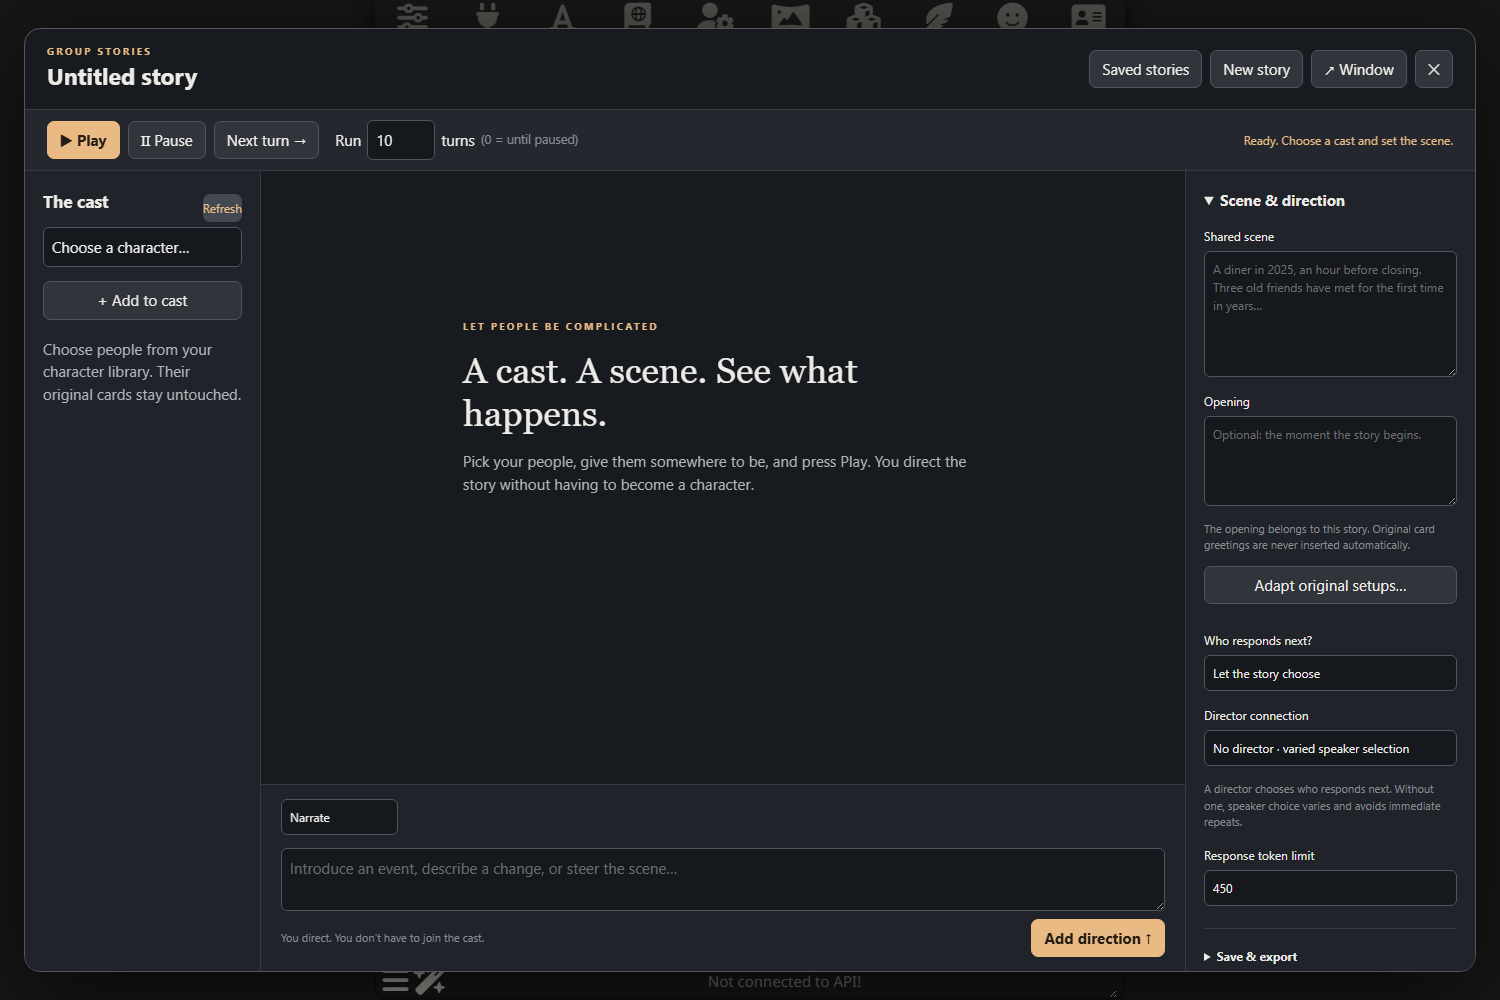
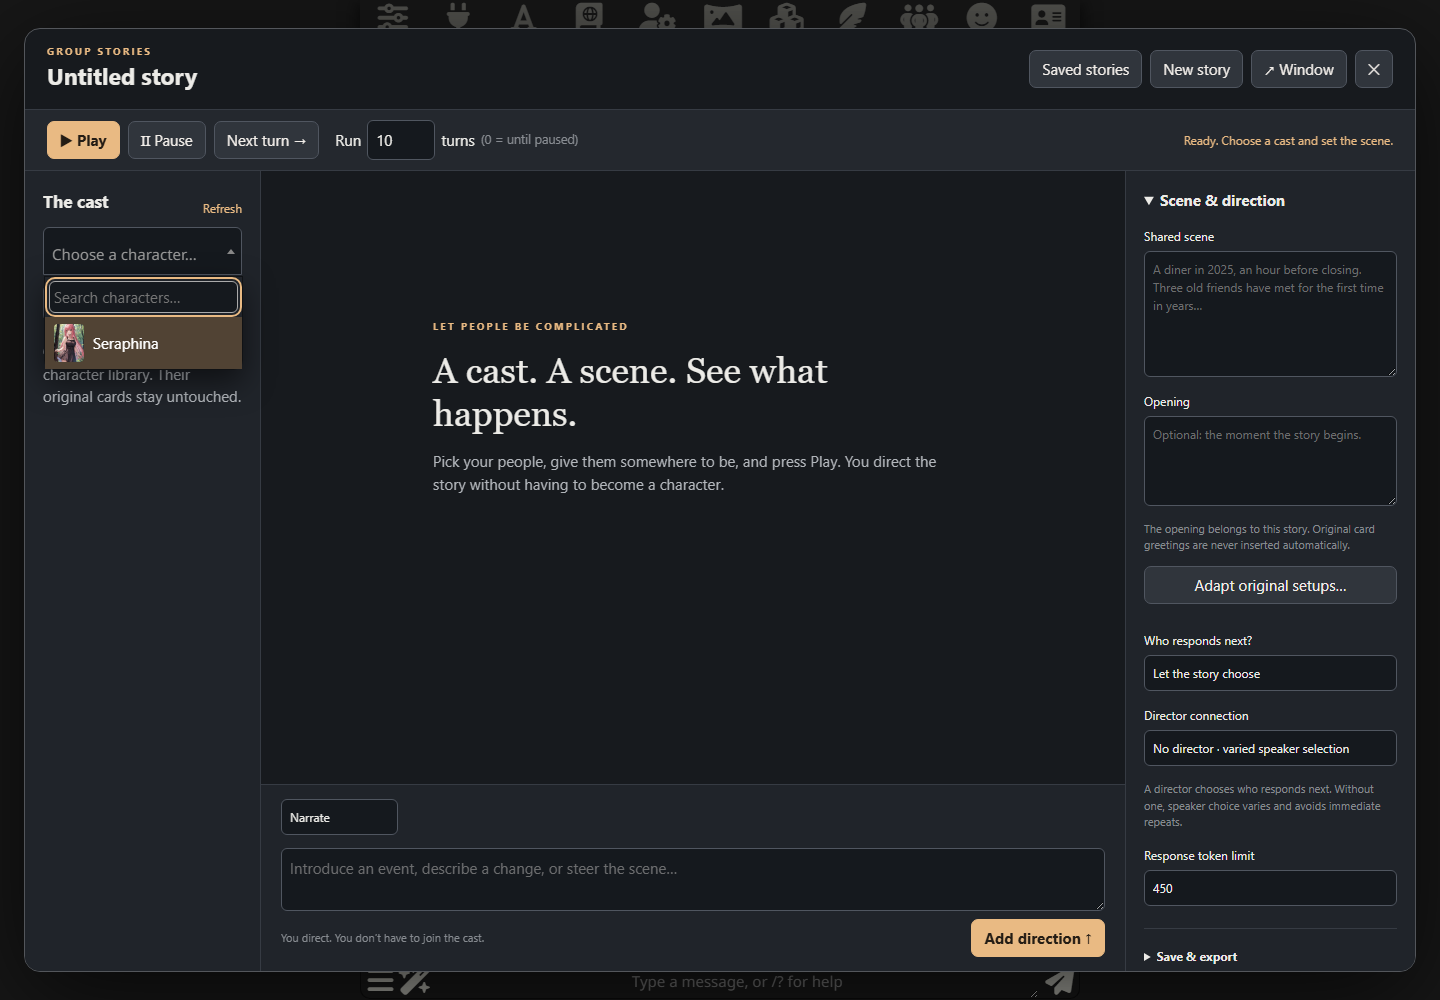
Add native launchers and searchable character portrait picker

diff --git a/index.js b/index.js
@@ -243,13 +243,40 @@ function mount() {
 function refreshLibrary() {
     const select = $('[data-library]');
     options(select, context().characters.map(c => ({ id: c.avatar, name: c.name })).sort((a, b) => a.name.localeCompare(b.name)), select.value, 'Choose a character…');
+    const $select = jQuery(select);
+    if (jQuery.fn.select2) {
+        if (!$select.hasClass('select2-hidden-accessible')) {
+            const portraitOption = item => {
+                if (!item.id) return item.text;
+                const row = el('span', 'gs-character-option');
+                const image = el('img', 'gs-picker-avatar');
+                image.src = context().getThumbnailUrl('avatar', item.id);
+                image.alt = ''; image.loading = 'lazy';
+                image.addEventListener('error', () => { image.hidden = true; }, { once: true });
+                row.append(image, el('span', '', item.text));
+                return jQuery(row);
+            };
+            $select.select2({
+                width: '100%', placeholder: 'Choose a character…',
+                dropdownParent: jQuery(root),
+                templateResult: portraitOption, templateSelection: portraitOption,
+            });
+            $select.on('select2:open', () => {
+                const search = root.querySelector('.select2-search__field');
+                if (search) { search.placeholder = 'Search characters…'; search.setAttribute('aria-label', 'Search characters'); search.focus(); }
+            });
+        }
+        $select.trigger('change.select2');
+    }
     try { profiles = context().ConnectionManagerRequestService.getSupportedProfiles(); }
     catch { profiles = []; }
 }
 async function init() {
     const ctx = context();
-    const open = el('button', 'menu_button', 'Group Stories');
+    const open = el('div', 'list-group-item flex-container flexGap5');
     open.id = 'group-stories-open'; open.title = 'Direct an ensemble story';
+    open.setAttribute('role', 'button'); open.tabIndex = 0;
+    open.append(el('span', 'fa-solid fa-people-group extensionsMenuExtensionButton'), el('span', '', 'Group Stories'));
     document.querySelector('#extensionsMenu').append(open);
     const account = getCurrentUserHandle();
     store = createStore(account); await store.init();
@@ -262,7 +289,30 @@ async function init() {
         if (data.type === 'pause') adaptationController?.abort();
     });
     mount(); refreshLibrary(); await refresh();
-    open.onclick = guarded(async () => { refreshLibrary(); await refresh(); root.hidden = false; });
+    const showWorkspace = guarded(async () => { refreshLibrary(); await refresh(); root.hidden = false; });
+    const toggleWorkspace = () => {
+        if (root.hidden) showWorkspace();
+        else { jQuery($('[data-library]')).select2?.('close'); root.hidden = true; }
+    };
+    open.onclick = showWorkspace;
+    open.addEventListener('keydown', event => {
+        if (event.key === 'Enter' || event.key === ' ') { event.preventDefault(); showWorkspace(); }
+    });
+    const holder = document.getElementById('top-settings-holder');
+    if (holder && !document.getElementById('gs-top-button')) {
+        const button = el('div', 'drawer'); button.id = 'gs-top-button';
+        const icon = el('div', 'drawer-icon fa-solid fa-people-group fa-fw closedIcon');
+        icon.title = 'Group Stories'; icon.setAttribute('role', 'button');
+        icon.setAttribute('aria-label', 'Open Group Stories'); icon.tabIndex = 0;
+        icon.addEventListener('click', toggleWorkspace);
+        icon.addEventListener('keydown', event => {
+            if (event.key === 'Enter' || event.key === ' ') { event.preventDefault(); toggleWorkspace(); }
+        });
+        button.append(icon);
+        const after = document.getElementById('cs-top-button') || document.getElementById('extensions-settings-button');
+        if (after?.parentElement === holder) after.after(button);
+        else holder.append(button);
+    }
     channel.postMessage({ type: 'hello' });
     if (new URL(location.href).searchParams.get('group-stories') === '1') root.hidden = false;
     window.addEventListener('pagehide', () => {

diff --git a/style.css b/style.css
@@ -61,6 +61,22 @@
 .gs-dialog button { margin:12px 8px 0 0; }
 .gs-dialog .gs-saved { display:block; width:100%; text-align:left; }
 .gs-sr { position:absolute; width:1px; height:1px; overflow:hidden; clip-path:inset(50%); }
+.gs-workspace .gs-character-option { display:flex; align-items:center; gap:9px; min-width:0; }
+.gs-workspace .gs-character-option>span { overflow:hidden; text-overflow:ellipsis; white-space:nowrap; }
+.gs-workspace .gs-picker-avatar { width:30px; height:38px; object-fit:cover; border-radius:4px; flex-shrink:0; }
+.gs-workspace .select2-container { min-width:0; }
+.gs-workspace .select2-container .select2-selection--single { height:48px; background:#15191e; border:1px solid #505660; border-radius:6px; }
+.gs-workspace .select2-selection--single .select2-selection__rendered { line-height:46px; padding-left:8px; padding-right:25px; color:var(--gs-text); }
+.gs-workspace .select2-selection--single .select2-selection__arrow { height:46px; }
+.gs-workspace .select2-selection--single .gs-character-option { height:46px; line-height:1.4; }
+.gs-workspace .select2-dropdown { background:var(--gs-panel); color:var(--gs-text); border:1px solid #505660; box-shadow:0 12px 30px #0008; }
+.gs-workspace .select2-search__field { color:var(--gs-text); background:#15191e; }
+.gs-workspace .select2-results__option { padding:7px 9px; }
+.gs-workspace .select2-results__option::before { display:none; content:none; }
+.gs-workspace .select2-results__option[aria-selected=true] { background:#343c46; }
+.gs-workspace .select2-results__option--highlighted[aria-selected] { background:#514334; color:#fff; }
+.gs-workspace .select2-results>.select2-results__options { max-height:260px; }
+#gs-top-button .drawer-icon:hover,#gs-top-button .drawer-icon:focus-visible { color:var(--SmartThemeBodyColor); }
 @media(max-width:1100px) { .gs-columns { grid-template-columns:200px minmax(260px,1fr) 240px; } .gs-workspace { inset:8px; } .gs-cast,.gs-directing { padding:12px; } .gs-toolbar button { font-size:12px; padding:6px; } }
 @media(max-width:800px) { .gs-workspace { inset:0; border-radius:0; } .gs-header { padding:10px; flex-wrap:wrap; gap:8px; } .gs-header input { font-size:20px; } .gs-toolbar { gap:5px; } .gs-controls { padding:8px 10px; } .gs-controls [data-status] { width:100%; max-width:none; margin-left:0; } .gs-columns { display:flex; flex-wrap:wrap; overflow:auto; } .gs-cast { width:100%; max-height:220px; flex-shrink:0; border-right:0; border-bottom:1px solid var(--gs-line); } [data-cast] { display:flex; flex-wrap:wrap; gap:16px; } .gs-person { flex:1 0 180px; } .gs-story { width:100%; min-height:60vh; } .gs-transcript { min-height:260px; max-height:60vh; } .gs-directing { width:100%; border-left:0; border-top:1px solid var(--gs-line); } .gs-empty { margin:28px auto; } .gs-composer { padding:12px; } }
 @media(min-width:801px) and (max-width:1100px) { .gs-workspace { height:calc(100dvh - 16px); } }

diff --git a/docs/verification.md b/docs/verification.md
@@ -1,5 +1,13 @@
 # Verification history
 
+## v0.1.2 — Native launchers and portrait picker — 2026-10-19
+
+Group Stories now has a native-styled top-bar launcher with a group-of-people icon, placed beside Creative Studio's feather when present. The wand entry uses SillyTavern's standard menu row and Font Awesome icon. No settings drawer was added. Both launchers open the same workspace, and keyboard activation works on the top-bar icon.
+
+The library picker uses SillyTavern's existing Select2 widget and `getThumbnailUrl('avatar', avatar)` to display names and portraits in search results and the selected value. Search works at desktop and mobile viewport widths. Character names are rendered as text nodes, and thumbnail paths come from the host helper.
+
+Verification uses the local SillyTavern only, through the ordinary-HTTP test hostname mapped to 127.0.0.1. All **37 UI checks passed**, covering native launcher appearance and keyboard access, actual wand-menu opening, portrait search and selection, mobile selection without horizontal overflow, and the existing generation/privacy/storage workflows. All **13 engine tests passed**. No Group Stories runtime errors or unexplained console errors were recorded. Browser plugin was not available; regular Playwright was used. Provider replies were simulated; no real model requests were made.
+
 ## v0.1.1 — LAN HTTP compatibility — 2026-10-19
 
 The v0.1.0 startup failure was reproduced at `http://group-stories-lan.test:8123/`, mapped by Chromium only to the dedicated local server at 127.0.0.1. The browser reported `isSecureContext === false`, `navigator.locks === undefined` and `crypto.randomUUID === undefined`; no workspace mounted. This reproduces the browser restrictions of ordinary LAN HTTP without touching another SillyTavern instance or changing server/network configuration.

diff --git a/README.md b/README.md
@@ -40,7 +40,7 @@ Requires **SillyTavern 1.19 or later**, a browser supporting IndexedDB and Broad
    ```
 
 3. Install, then reload SillyTavern.
-4. Open **Group Stories** from the extensions/wand menu.
+4. Open **Group Stories** using the group-of-people icon in the top bar, or its icon-and-label entry in the wand menu.
 
 **No build step. No package installation.** The repository contains the ready-to-run JavaScript and CSS.
 
@@ -52,7 +52,7 @@ Use SillyTavern's extension updater for this repository, then reload every open 
 
 ## Start a story
 
-1. Select a character from your existing SillyTavern library and click **Add to cast**. Repeat for the rest of the cast.
+1. Open the character picker in **The cast**. Search by name and choose a character by their name and portrait, then click **Add to cast**. Repeat for the rest of the cast. The picker uses SillyTavern's existing Select2 widget and native avatar thumbnails, including on mobile.
 2. Select a connection profile under each character. Connections are used independently without switching your main SillyTavern connection.
 3. Write the shared scene and optional opening. Original character greetings are not inserted. **Adapt original setups…** can draft a coherent shared premise for you to review and edit before using it; this makes a model request with the chosen director or first configured character profile.
 4. Press **Next turn** for one contribution or **Play** for the selected number of turns. Choose `0` to continue until paused.
